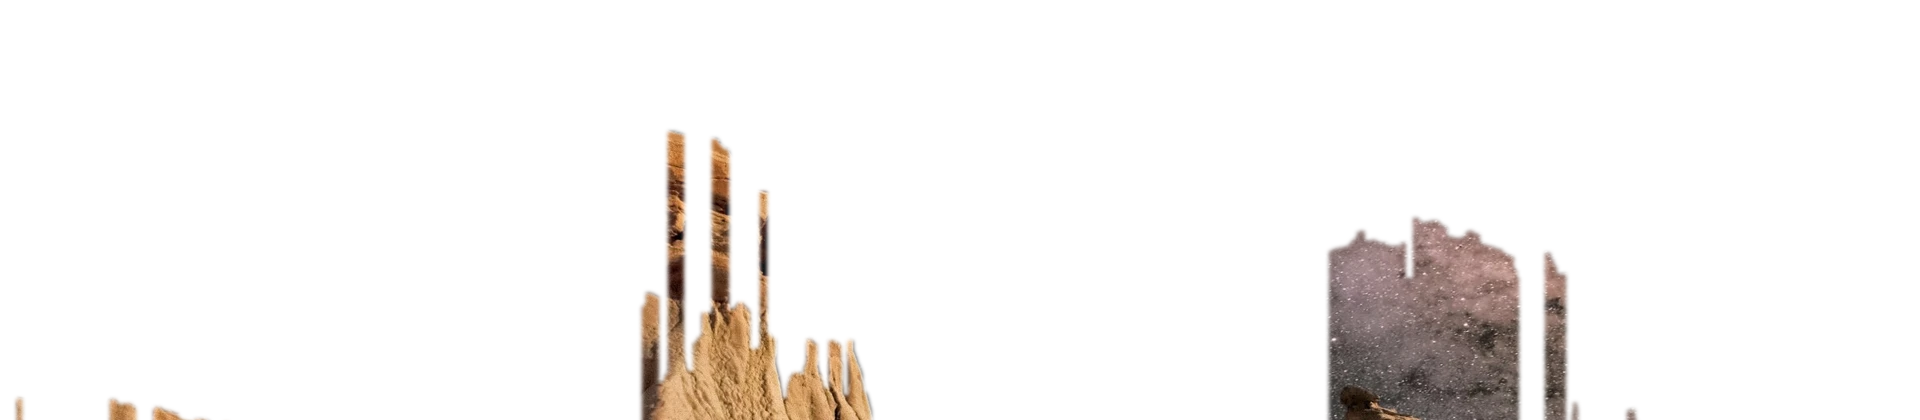
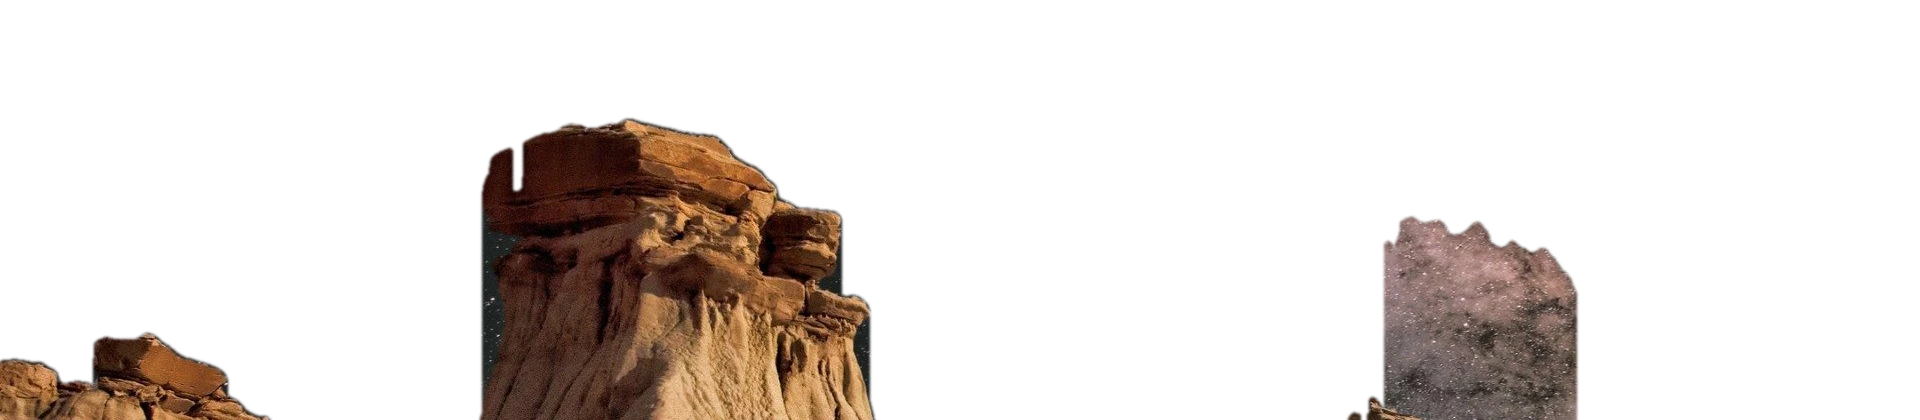
v1.33.1: lights in a thin top band and the date below them; clean front cut-outs for badlands, mountain lake and palm beach
Claude-Session: https://claude.ai/code/session_01R4wukJQqgLhcwCNBdbDiZB

diff --git a/lib/seasons.dart b/lib/seasons.dart
@@ -306,7 +306,8 @@ class _SeasonPainter extends CustomPainter {
   /// Christmas lights: a dark wire that swags across the top of the screen, with coloured
   /// bulbs hanging from it that glow and twinkle softly, each at its own pace.
   void _lights(Canvas c, Size s, double t, Paint paint) {
-    const swags = 4, dip = 34.0, top = 8.0, perSwag = 9;
+    // kept to a thin band at the very top, above the date on the photo scenes
+    const swags = 4, dip = 16.0, top = 2.0, perSwag = 9;
     final w = s.width / swags;
     final wire = Path()..moveTo(0, top);
     for (var i = 0; i < swags; i++) {

diff --git a/lib/scenes.dart b/lib/scenes.dart
@@ -486,7 +486,8 @@ class _PhotoClockState extends State<_PhotoClock> {
       Positioned(
         left: 0,
         right: 0,
-        top: top - 95,
+        // never up in the band where the Christmas lights hang
+        top: max(top - 95, 74),
         child: Text(date,
             textAlign: TextAlign.center,
             style: const TextStyle(

diff --git a/CHANGELOG.md b/CHANGELOG.md
@@ -3,6 +3,11 @@
 Newest first. Each update on the TV (Settings → Backup and updates → Updates) and each
 GitHub release shows the part of this list it brings.
 
+## 1.33.1
+**Fixed**
+- The Christmas lights hang in a thin band at the very top, and the date on the photo scenes always sits below them.
+- The starry badlands, mountain lake and palm beach scenes: the rocks, peaks and shore in front of the clock have clean edges now (the time looked chopped up, especially a 1).
+
 ## 1.33.0
 **Added**
 - **Christmas lights:** during Christmas week, a string of coloured lights swags along the top of the home screen, glowing and twinkling, above the falling snow.
